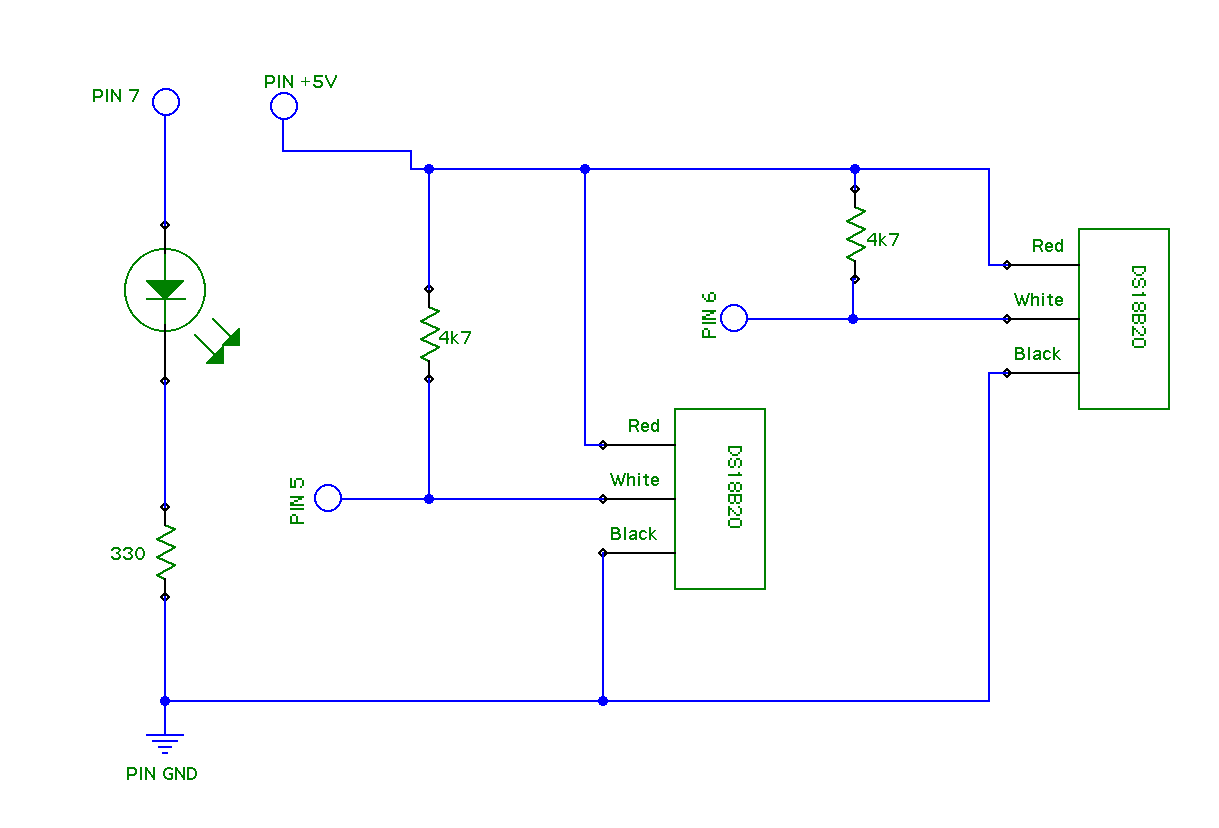
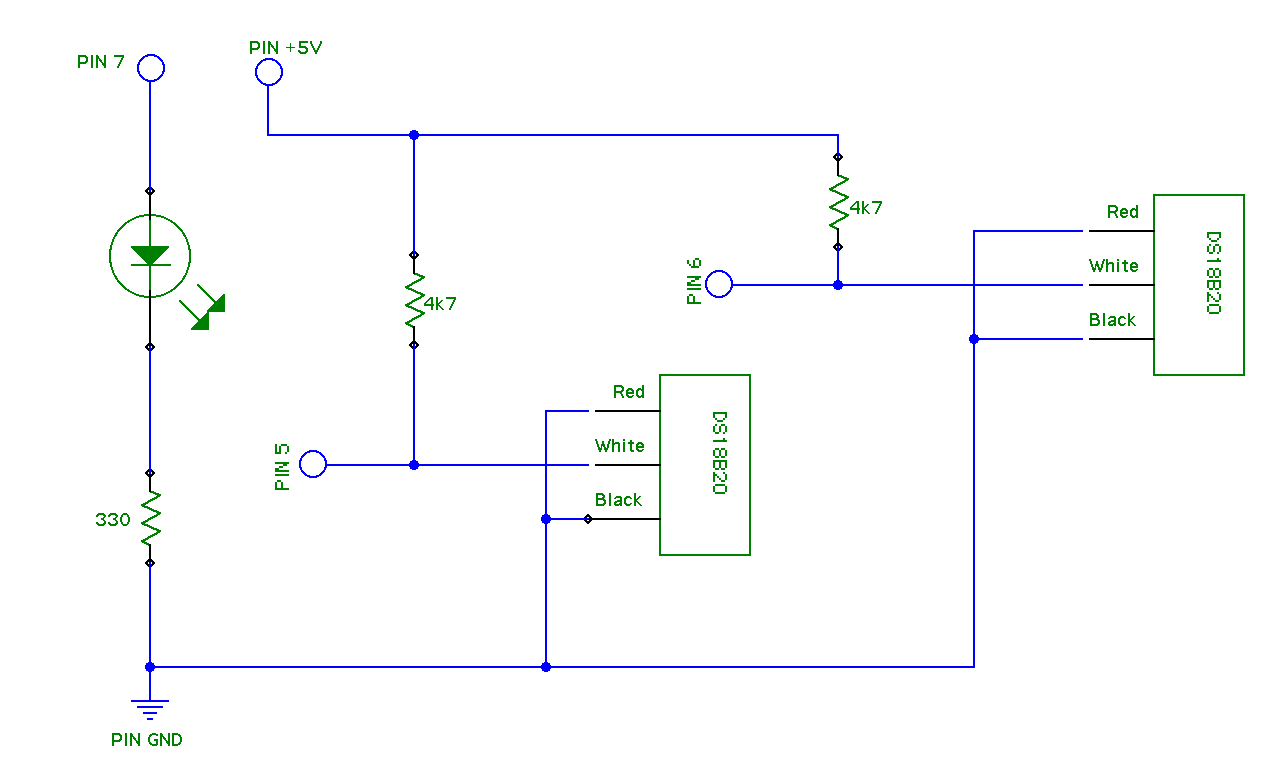
Migrate to parasitic power

diff --git a/README.md b/README.md
@@ -7,7 +7,11 @@ ethernet with poe shield (providing both network and power).
 
 ### Circuit
 
+Updated to use parasitic power for the sensors (connect the plus wire of the sensor to ground).
+
 ![Circuit diagram](circuit.png)
+
+![Layout](layout.png)
 
 ### Temperature
 
